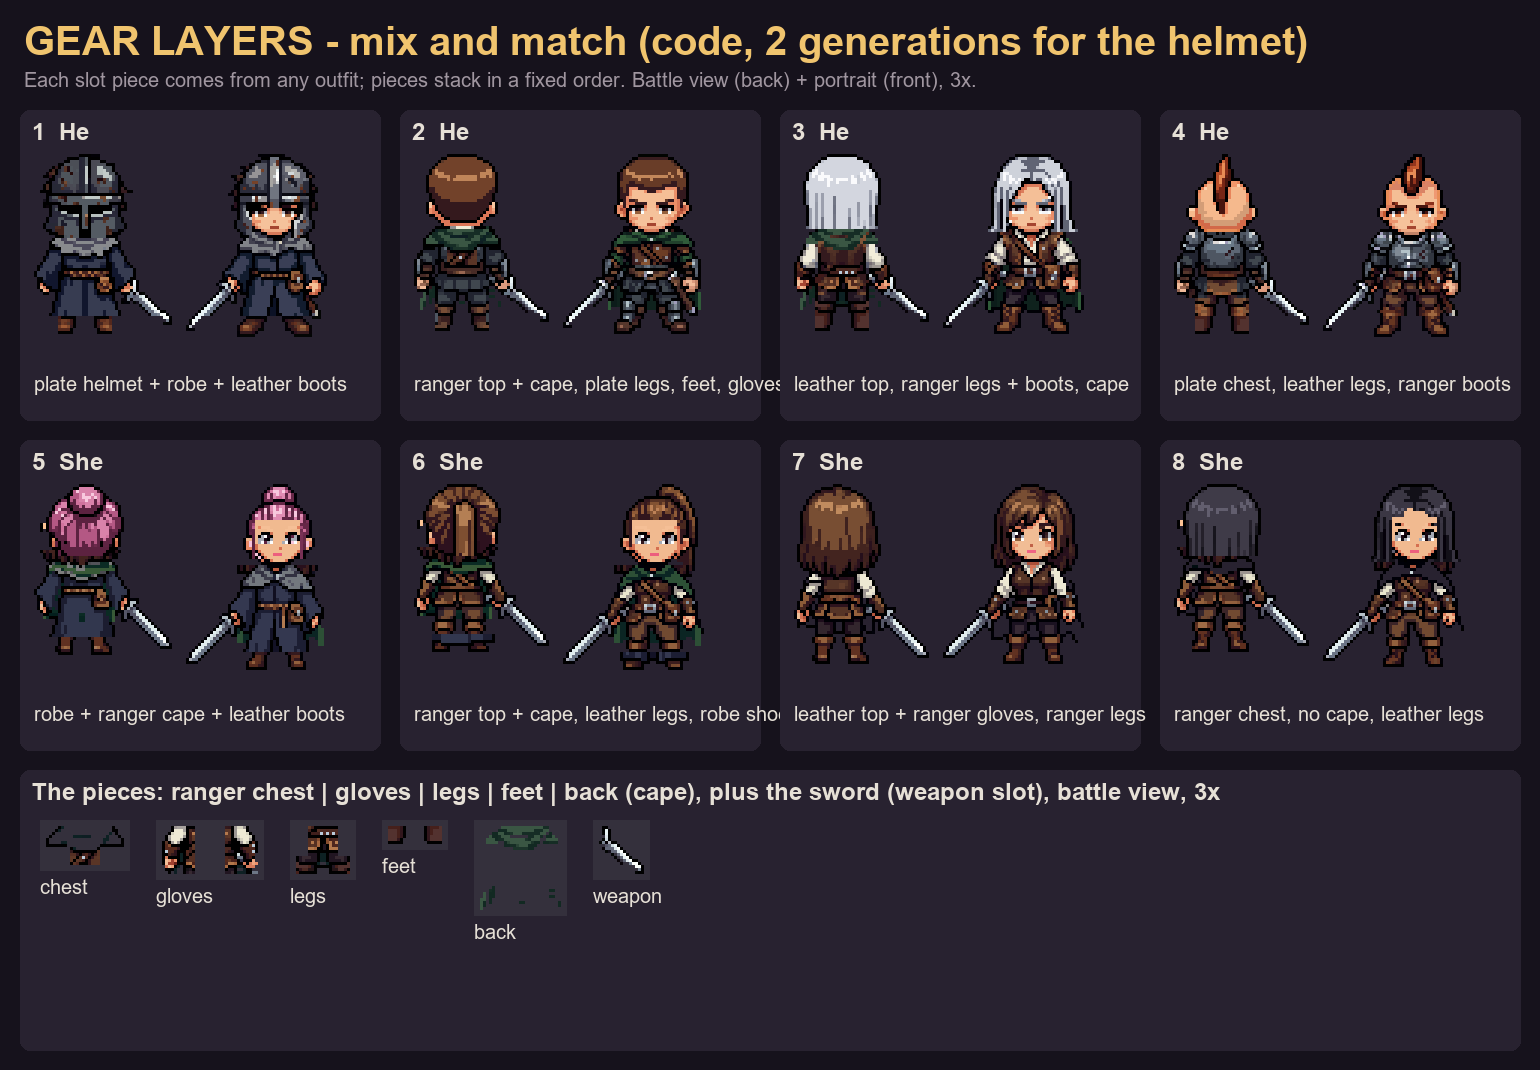
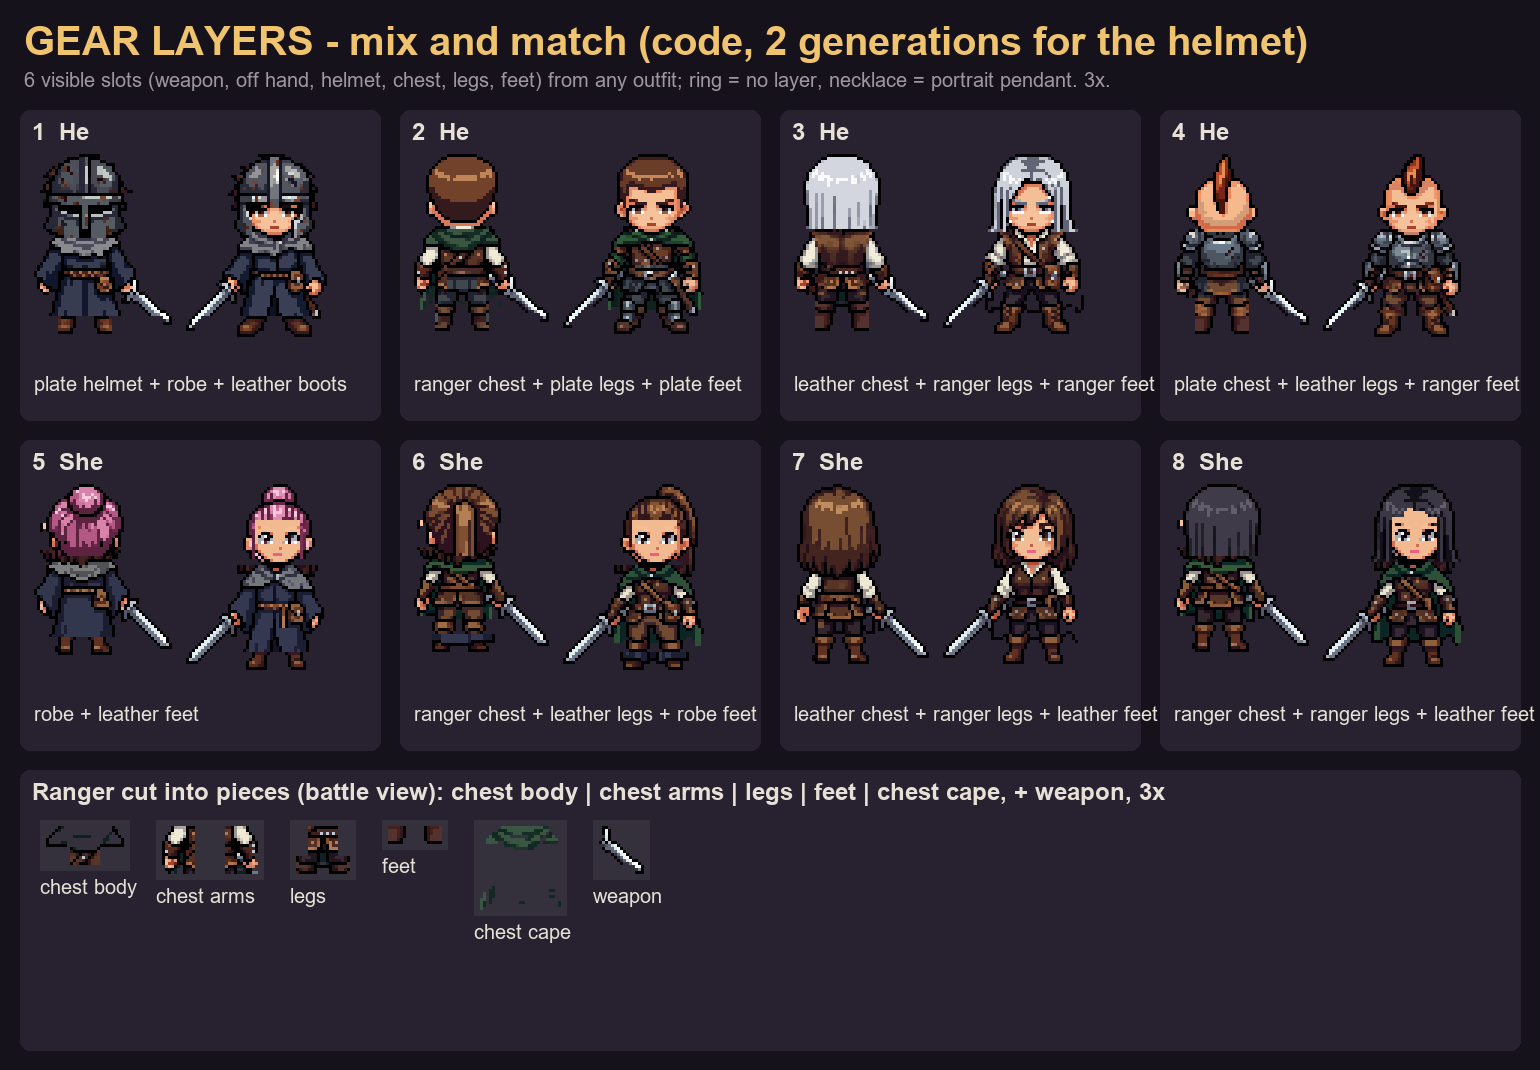
PixelLab hero gear layers: Juzo's 8 slots (6 visible + necklace on portrait, ring none); arms + cape belong to the chest item

diff --git a/claude/art_test/pixellab/layers/mix_sheet.py b/claude/art_test/pixellab/layers/mix_sheet.py
@@ -65,27 +65,28 @@ def build(body, v, kit, style=None, col=None):
     pcs.setdefault("weapon", PIECES[(body, "base", v)]["weapon"])
     return LY.compose(v, pcs, head(body, v, style, col))
 
-def kit(chest, legs, feet, gloves=None, back=None, helmet=None):
-    k = {"chest": chest, "legs": legs, "feet": feet, "gloves": gloves or chest}
-    if back:
-        k["back"] = back
+def kit(chest, legs, feet, helmet=None):
+    """The 6 visible slots. Arms/hands and any cape are parts of the chest item."""
+    k = {"chest": chest, "legs": legs, "feet": feet, "gloves": chest}
+    if chest == "ranger":
+        k["back"] = "ranger"
     if helmet:
         k["helmet"] = helmet
     return k
 
-MIXES = [
+MIXES = [  # chest / legs / feet / helmet; weapon is the base sword (step 4 swaps it)
     ("m", "plate helmet + robe + leather boots", kit("robe", "base", "base", helmet="plate"), None, None),
-    ("m", "ranger top + cape, plate legs, feet, gloves", kit("ranger", "plate", "plate", gloves="plate", back="ranger"), "short", None),
-    ("m", "leather top, ranger legs + boots, cape", kit("base", "ranger", "ranger", back="ranger"), "long", "white"),
-    ("m", "plate chest, leather legs, ranger boots", kit("plate", "base", "ranger"), "mohawk", "red"),
-    ("f", "robe + ranger cape + leather boots", kit("robe", "base", "base", back="ranger"), "bun", "pink"),
-    ("f", "ranger top + cape, leather legs, robe shoes", kit("ranger", "base", "robe", back="ranger"), "ponytail", None),
-    ("f", "leather top + ranger gloves, ranger legs", kit("base", "ranger", "base", gloves="ranger"), None, None),
-    ("f", "ranger chest, no cape, leather legs", kit("ranger", "base", "ranger"), "long", "black"),
+    ("m", "ranger chest + plate legs + plate feet", kit("ranger", "plate", "plate"), "short", None),
+    ("m", "leather chest + ranger legs + ranger feet", kit("base", "ranger", "ranger"), "long", "white"),
+    ("m", "plate chest + leather legs + ranger feet", kit("plate", "base", "ranger"), "mohawk", "red"),
+    ("f", "robe + leather feet", kit("robe", "base", "base"), "bun", "pink"),
+    ("f", "ranger chest + leather legs + robe feet", kit("ranger", "base", "robe"), "ponytail", None),
+    ("f", "leather chest + ranger legs + leather feet", kit("base", "ranger", "base"), None, None),
+    ("f", "ranger chest + ranger legs + leather feet", kit("ranger", "ranger", "base"), "long", "black"),
 ]
 COLS, CW, CH = 4, 380, 330
 S = MS.Sheet(20 + COLS * CW, 110 + 2 * CH + 300, "GEAR LAYERS - mix and match (code, 2 generations for the helmet)",
-             "Each slot piece comes from any outfit; pieces stack in a fixed order. Battle view (back) + portrait (front), 3x.")
+             "6 visible slots (weapon, off hand, helmet, chest, legs, feet) from any outfit; ring = no layer, necklace = portrait pendant. 3x.")
 for i, (body, label, k, style, col) in enumerate(MIXES):
     x0, y0 = 20 + (i % COLS) * CW, 110 + (i // COLS) * CH
     S.panel(x0, y0, CW - 20, CH - 20, f"{i + 1}  {'He' if body == 'm' else 'She'}")
@@ -94,7 +95,7 @@ for i, (body, label, k, style, col) in enumerate(MIXES):
         w, _ = S.put(tight(build(body, v, k, style, col)), x, y0 + 44, 3); x += w + 14
     S.d.text((x0 + 14, y0 + 262), label, font=MS.F_S, fill=MS.TXT)
 y0 = 110 + 2 * CH
-S.panel(20, y0, COLS * CW - 20, 280, "The pieces: ranger chest | gloves | legs | feet | back (cape), plus the sword (weapon slot), battle view, 3x")
+S.panel(20, y0, COLS * CW - 20, 280, "Ranger cut into pieces (battle view): chest body | chest arms | legs | feet | chest cape, + weapon, 3x")
 x = 40
 for s, src in (("chest", "ranger"), ("gloves", "ranger"), ("legs", "ranger"), ("feet", "ranger"), ("back", "ranger"), ("weapon", "base")):
     p = PIECES[("m", src, "north")][s]
@@ -102,5 +103,5 @@ for s, src in (("chest", "ranger"), ("gloves", "ranger"), ("legs", "ranger"), ("
         continue
     t = tight(p)
     box = Image.new("RGBA", (t.width + 4, t.height + 4), (52, 48, 60, 255)); box.alpha_composite(t, (2, 2))
-    w, _ = S.put(box, x, y0 + 50, 3, label=s); x += w + 26
+    w, _ = S.put(box, x, y0 + 50, 3, label={"chest": "chest body", "gloves": "chest arms", "back": "chest cape"}.get(s, s)); x += w + 26
 S.im.convert("RGB").save(os.path.join(HERE, "01_LAYERS_mix.png"))

diff --git a/claude/art_test/pixellab/layers/layers.py b/claude/art_test/pixellab/layers/layers.py
@@ -2,7 +2,11 @@
 
 Every outfit is a PixelLab edit of the SAME base pose, so pixels line up between outfits. This cuts each
 outfit image into per-slot pieces by body region (measured on the base body of that view), and stacks any
-pieces from any outfits in a fixed draw order. 8 slots: helmet, chest, gloves, legs, feet, back, weapon, offhand.
+pieces from any outfits in a fixed draw order.
+Juzo's 8 gear slots: Weapon, Off Hand, Helmet, Chest, Legs, Feet, Ring, Necklace. Visible layers are the 6 main
+slots; the necklace is a small pendant on the portrait (south) only; the ring has no layer. A chest item owns
+three parts drawn at different depths: its body ("chest"), its arms/hands ("gloves" part) and an optional cape
+("back" part).
 
 Regions (rows measured on the base figure, top..bottom = H):
   head   : above the head line (hair / face / helmet live here, not outfit pieces)
@@ -23,10 +27,12 @@ import recolour as R
 import headswap as HS
 import colorsys
 
-SLOTS = ["helmet", "chest", "gloves", "legs", "feet", "back", "weapon", "offhand"]
+SLOTS = ["helmet", "chest", "gloves", "legs", "feet", "back", "weapon", "offhand"]  # cut parts
+GEAR_SLOTS = ["weapon", "offhand", "helmet", "chest", "legs", "feet", "ring", "necklace"]  # the game's slots
+PART_OF = {"gloves": "chest", "back": "chest"}  # parts that come with the chest item
 # draw order per view: from behind (north) the cape covers the back; from the front it hangs behind the body
 ORDER = {"north": ["legs", "feet", "chest", "gloves", "back", "head", "helmet", "weapon", "offhand"],
-         "south": ["back", "legs", "feet", "chest", "gloves", "head", "helmet", "weapon", "offhand"]}
+         "south": ["back", "legs", "feet", "chest", "gloves", "head", "necklace", "helmet", "weapon", "offhand"]}
 LONG = {"robe"}  # skirts that cover the legs band
 
 

diff --git a/claude/art_test/pixellab/custom/PLAN.md b/claude/art_test/pixellab/custom/PLAN.md
@@ -24,8 +24,10 @@ Check `get_balance` before each batch; show a sample before any batch over ~30 g
 - Total ~400, leaving most of the month free.
 
 ## Gear layers (Juzo: everything interchangeable, 8 slots) - proof in ../layers/01_LAYERS_mix.png
-- Slots: helmet, chest, gloves, legs, feet, back (cape), weapon, off hand (game code has 6 today; gloves and
-  back are the likely new two - just more layers).
+- Slots (Juzo, confirmed): Weapon, Off Hand, Helmet, Chest, Legs, Feet, Ring, Necklace. Visible layers = the
+  6 main slots. Necklace = optional small pendant on the portrait (south), at most a 1-2 px hint in battle.
+  Ring = no layer (at most a 1 px glint on the weapon hand for Mythic). A chest item owns its arms/hands and
+  any cape; the cape is drawn at its own depth (over the back in battle view, behind the body in portrait).
 - Every item is a piece cut from a PixelLab edit of the SAME base pose, so pieces line up on the base body.
   Regions per view come from the base body's landmarks (neck line, belt 63%, boot tops 90%, torso columns);
   code: ../layers/layers.py.
